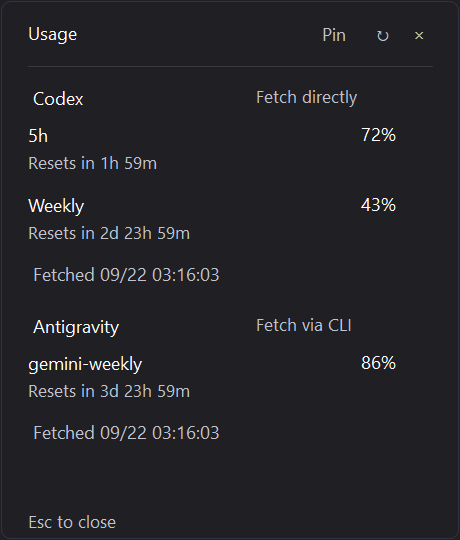
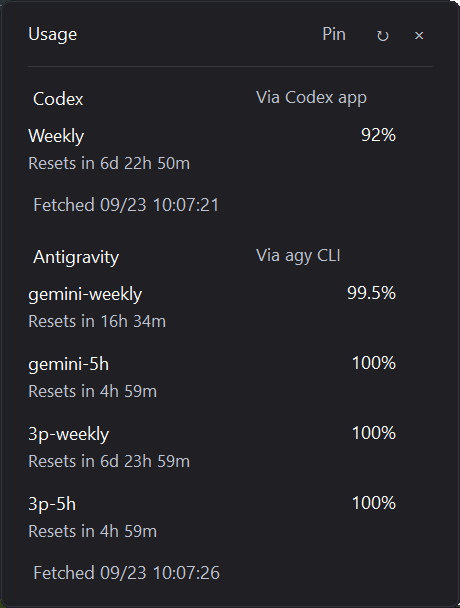
Show quota details on hover and clarify data sources

diff --git a/Program.cs b/Program.cs
@@ -39,24 +39,40 @@ internal sealed class TrayApplicationContext : ApplicationContext
     private NotifyIcon? selectedTray;
     private readonly TrayContextMenu menu = new();
     private readonly System.Windows.Forms.Timer poll = new() { Interval = 60000 };
+    private readonly System.Windows.Forms.Timer hoverClose = new() { Interval = 100 };
 
     private readonly CancellationTokenSource stop = new();
     private readonly DetailsForm form;
     private readonly TrayWidget widget;
     private Reading codex = new("Codex", [], null), agy = new("Antigravity", [], null);
-    private bool busy, closing;
+    private bool busy, closing, hoverOpened;
+    private long outsideSince;
 
     internal TrayApplicationContext()
     {
         form = new(prefs);
         prefs.Pinned = false;
         widget = new(new[] { tray, agyTray }.Concat(extraSlots).ToArray(), menu);
-        widget.OpenDetails += () => { if (form.Visible) form.Hide(); else form.Reveal(true); };
+        widget.OpenDetails += () => { hoverOpened = false; if (form.Visible) form.Hide(); else form.Reveal(true); };
+        widget.HoverDetailsEnabled = () => prefs.OpenDetailsOnHover;
+        widget.HoverDetails += () => { if (!form.Visible) { hoverOpened = true; outsideSince = 0; form.Reveal(true); } };
+        form.VisibleChanged += (_, _) => { if (!form.Visible) { hoverOpened = false; outsideSince = 0; } };
+        menu.Opened += (_, _) => { if (hoverOpened) form.Hide(); };
+        hoverClose.Tick += (_, _) =>
+        {
+            if (!hoverOpened || !form.Visible || prefs.Pinned) return;
+            if (widget.IsHovered || form.Bounds.Contains(Cursor.Position)) { outsideSince = 0; return; }
+            if (outsideSince == 0) outsideSince = Environment.TickCount64;
+            else if (Environment.TickCount64 - outsideSince >= 350) form.Hide();
+        };
         form.TrayBounds = () => widget.Visible ? widget.ScreenBounds : TrayPresentation.GetBounds(selectedTray ?? tray);
         menu.TrayAnchor = () => widget.Visible ? widget.ScreenBounds : TrayPresentation.GetBounds(selectedTray ?? tray) ?? new Rectangle(Cursor.Position, Size.Empty);
         form.RefreshRequested += () => _ = Refresh();
-        menu.Items.Add(L.T("パネルを開く"), null, (_, _) => form.Reveal(true));
+        menu.Items.Add(L.T("パネルを開く"), null, (_, _) => { hoverOpened = false; form.Reveal(true); });
         menu.Items.Add(L.T("今すぐ更新"), null, (_, _) => _ = Refresh());
+        var hoverOption = new ToolStripMenuItem(L.T("ホバーで詳細を開く")) { CheckOnClick = true, Checked = prefs.OpenDetailsOnHover };
+        hoverOption.CheckedChanged += (_, _) => { prefs.OpenDetailsOnHover = hoverOption.Checked; prefs.Save(); };
+        menu.Items.Add(hoverOption);
         var startup = new ToolStripMenuItem(L.T("Windows起動時に開始")) { CheckOnClick = true };
         using (var key = Registry.CurrentUser.OpenSubKey(@"Software\Microsoft\Windows\CurrentVersion\Run")) startup.Checked = key?.GetValue("CodexLimitViewer") != null;
         startup.Click += (_, _) =>
@@ -94,11 +110,12 @@ internal sealed class TrayApplicationContext : ApplicationContext
         foreach (var icon in new[] { tray, agyTray })
         {
             icon.MouseDown += (_, _) => selectedTray = icon;
-            icon.MouseClick += (_, e) => { if (e.Button == MouseButtons.Left) { selectedTray = icon; if (form.Visible && !prefs.Pinned) form.Hide(); else form.Reveal(true); } };
+            icon.MouseClick += (_, e) => { if (e.Button == MouseButtons.Left) { selectedTray = icon; hoverOpened = false; if (form.Visible && !prefs.Pinned) form.Hide(); else form.Reveal(true); } };
         }
         poll.Tick += (_, _) => _ = Refresh();
 
         poll.Start();
+        hoverClose.Start();
         if (prefs.Pinned) { form.PositionAtTray(); form.Show(); }
         _ = Refresh();
     }
@@ -129,7 +146,7 @@ internal sealed class TrayApplicationContext : ApplicationContext
     }
     protected override void ExitThreadCore()
     {
-        closing = true; stop.Cancel(); poll.Dispose();
+        closing = true; stop.Cancel(); poll.Dispose(); hoverClose.Dispose();
         tray.Visible = false; agyTray.Visible = false;
         widget.Dispose(); tray.Icon?.Dispose(); tray.Dispose(); agyTray.Icon?.Dispose(); agyTray.Dispose(); menu.Dispose(); form.Dispose();
         foreach (var slot in extraSlots) { slot.Visible = false; slot.Icon?.Dispose(); slot.Dispose(); }

diff --git a/DetailsForm.cs b/DetailsForm.cs
@@ -92,7 +92,7 @@ internal sealed class DetailsForm : Form
         refresh.SetBounds(Width - 91, 17, 30, 30);
         hide.SetBounds(Width - 55, 17, 30, 30);
         pin.ForeColor = prefs.Pinned ? Mint : Muted;
-        list.SetBounds(20, 85, Math.Max(20, Width - 40), Math.Max(1, Height - 125));
+        list.SetBounds(20, 85, Math.Max(20, Width - 40), Math.Max(1, Height - 90));
     }
     private void RoundWindow()
     {
@@ -117,8 +117,9 @@ internal sealed class DetailsForm : Form
     internal void Expand(bool value, bool animate = true)
     {
         expanded = value;
+        int missing = (codex.Quotas.Count == 0 ? 1 : 0) + (agy.Quotas.Count == 0 ? 1 : 0);
         int expandedHeight = Math.Min(Screen.FromRectangle(Bounds).WorkingArea.Height - 24,
-            Math.Clamp(330 + 70 * (codex.Quotas.Count + agy.Quotas.Count), 482, 720));
+            Math.Clamp(258 + 70 * (codex.Quotas.Count + agy.Quotas.Count) + 20 * missing, 300, 720));
         target = value ? new Size(460, expandedHeight) : new Size(344, 54);
         if (value) RebuildRows();
         ClientSize = target; ClampPosition();
@@ -172,9 +173,9 @@ internal sealed class DetailsForm : Form
         foreach (var reading in new[] { codex, agy })
         {
             var color = reading.Provider == "Codex" ? Mint : Violet;
-            AddLabel(reading.Provider, new Rectangle(8, y, 230, 25), color, 12);
-            string status = reading.Updated == null ? L.T("未接続") : reading.Stale ? L.T("前回の値") : reading.Provider == "Codex" ? L.T("直接取得") : L.T("CLIで取得");
-            AddLabel(status, new Rectangle(232, y, 160, 28), Muted, 11);
+            AddLabel(reading.Provider, new Rectangle(8, y, 210, 25), color, 12);
+            string status = reading.Updated == null ? L.T("未接続") : reading.Stale ? L.T("前回の値") : reading.Provider == "Codex" ? reading.Source ?? "Codex" : L.T("agy CLI経由");
+            AddLabel(status, new Rectangle(232, y, 185, 28), Muted, 11, ellipsis: false);
             y += 36;
             if (reading.Quotas.Count == 0)
             {
@@ -194,12 +195,12 @@ internal sealed class DetailsForm : Form
             }
             y += 20;
         }
-        list.AutoScrollMinSize = new Size(0, y);
+        list.AutoScrollMinSize = new Size(0, Math.Max(0, y - 20));
         list.ResumeLayout(); list.AutoScrollPosition = new Point(-scroll.X, -scroll.Y);
     }
-    private void AddLabel(string text, Rectangle bounds, Color color, float size, FontStyle style = FontStyle.Regular)
+    private void AddLabel(string text, Rectangle bounds, Color color, float size, FontStyle style = FontStyle.Regular, bool ellipsis = true)
     {
-        list.Controls.Add(new Label { Text = L.T(text), Bounds = bounds, ForeColor = color, Font = new Font("Segoe UI", size * DeviceDpi / 96f, style, GraphicsUnit.Pixel), AutoEllipsis = true });
+        list.Controls.Add(new Label { Text = L.T(text), Bounds = bounds, ForeColor = color, Font = new Font("Segoe UI", size * DeviceDpi / 96f, style, GraphicsUnit.Pixel), AutoEllipsis = ellipsis });
     }
     protected override void OnPaint(PaintEventArgs e)
     {
@@ -219,7 +220,7 @@ internal sealed class DetailsForm : Form
         {
             DrawText(g, L.T("使用状況"), 28, 20, 12, Color.White);
             using var divider = new Pen(Color.FromArgb(58, 58, 63)); g.DrawLine(divider, 28, 66, Width - 28, 66);
-            DrawText(g, refreshing ? L.T("使用状況を更新中…") : L.T("Esc で閉じる"), 28, Height - 30, 11, Muted);
+            if (refreshing) DrawText(g, L.T("更新中…"), 130, 20, 10, Muted);
         }
     }
     internal static GraphicsPath Rounded(RectangleF r, float radius)

diff --git a/TrayWidget.cs b/TrayWidget.cs
@@ -7,16 +7,23 @@ namespace CodexLimitViewer;
 internal sealed class TrayWidget : Form
 {
     private readonly NotifyIcon[] slots;
+    private readonly ContextMenuStrip menu;
     private readonly System.Windows.Forms.Timer timer = new() { Interval = 250 };
     private readonly ToolTip tooltip = new();
     private Reading codex = new("Codex", [], null), agy = new("Antigravity", [], null);
     private bool needsPaint = true;
     private bool hovered;
+    private bool hoverHandled;
+    private long hoverStarted;
     private Point taskbarPosition;
+    internal bool IsHovered => hovered;
     internal event Action? OpenDetails;
+    internal event Action? HoverDetails;
+    internal Func<bool>? HoverDetailsEnabled;
     internal TrayWidget(NotifyIcon[] slots, ContextMenuStrip menu)
     {
         this.slots = slots;
+        this.menu = menu;
         FormBorderStyle = FormBorderStyle.None;
         StartPosition = FormStartPosition.Manual;
         ShowInTaskbar = false;
@@ -49,6 +56,7 @@ internal sealed class TrayWidget : Form
     [DllImport("user32.dll")] private static extern bool ShowWindow(IntPtr window, int command);
     [DllImport("user32.dll", CharSet = CharSet.Unicode)] private static extern IntPtr FindWindow(string className, string? title);
     [DllImport("user32.dll")] private static extern bool IsWindow(IntPtr window);
+    [DllImport("user32.dll")] private static extern IntPtr WindowFromPoint(Point point);
     [DllImport("user32.dll")] private static extern bool GetWindowRect(IntPtr window, out NativeRect rect);
     [DllImport("user32.dll", SetLastError = true)] private static extern IntPtr SetParent(IntPtr child, IntPtr parent);
     [DllImport("user32.dll")] private static extern IntPtr GetWindowLongPtr(IntPtr window, int index);
@@ -100,8 +108,23 @@ internal sealed class TrayWidget : Form
         taskbarPosition = bounds.Location;
         if (Bounds != bounds) { Bounds = bounds; needsPaint = true; }
         if (!Visible) { Show(); needsPaint = true; }
-        bool pointerInside = ScreenBounds.Contains(Cursor.Position);
-        if (hovered != pointerInside) { hovered = pointerInside; needsPaint = true; }
+        bool pointerInside = ScreenBounds.Contains(Cursor.Position) && WindowFromPoint(Cursor.Position) == Handle;
+        if (hovered != pointerInside)
+        {
+            hovered = pointerInside;
+            hoverHandled = false;
+            hoverStarted = Environment.TickCount64;
+            needsPaint = true;
+        }
+        if (hovered && !hoverHandled)
+        {
+            if (menu.Visible) hoverHandled = true;
+            else if (Environment.TickCount64 - hoverStarted >= 400 && HoverDetailsEnabled?.Invoke() == true)
+            {
+                hoverHandled = true;
+                HoverDetails?.Invoke();
+            }
+        }
         if (needsPaint) { RenderSurface(); needsPaint = false; }
     }
     protected override void OnPaintBackground(PaintEventArgs e) { }

diff --git a/Verification.cs b/Verification.cs
@@ -9,6 +9,7 @@ internal static class Verification
         var results = new List<string>();
         try
         {
+            Check(new Preferences().OpenDetailsOnHover, "Hover details defaults on", results);
             Check(DetailsForm.FormatCountdown(TimeSpan.FromHours(100)) == "リセットまで 4日 4時間 0分", "Countdown 100 hours uses days", results);
             Check(DetailsForm.FormatCountdown(TimeSpan.FromHours(24)) == "リセットまで 1日 0時間 0分", "Countdown day boundary", results);
             Check(DetailsForm.FormatCountdown(TimeSpan.FromMinutes(1439)) == "リセットまで 23時間 59分", "Countdown below one day", results);
@@ -16,7 +17,9 @@ internal static class Verification
             L.English = true;
             Check(DetailsForm.FormatCountdown(TimeSpan.FromHours(100)) == "Resets in 4d 4h 0m", "English duration", results);
             Check(L.F("取得 {age}", ("age", "09/22 03:00:00")) == "Fetched 09/22 03:00:00", "English timestamp", results);
-            Check(L.QuotaLabel("週間") == "Weekly" && L.T("パネルを開く") == "Open panel", "English labels", results);
+            Check(L.QuotaLabel("週間") == "Weekly" && L.T("パネルを開く") == "Open panel" &&
+                L.T("Codexアプリ経由") == "Via Codex app" &&
+                L.T("ホバーで詳細を開く") == "Open details on hover", "English labels", results);
             L.English = false;
             using var codex = JsonDocument.Parse("""{"rateLimitsByLimitId":{"codex":{"primary":{"usedPercent":22.5,"windowDurationMins":300,"resetsAt":1800000000},"secondary":{"usedPercent":90,"windowDurationMins":10080}},"extra":{"primary":{"usedPercent":15,"windowDurationMins":60}}}}""");
             var c = QuotaParser.Codex(codex.RootElement);

diff --git a/Providers.cs b/Providers.cs
@@ -12,6 +12,7 @@ internal static class Providers
         var ct = timeout.Token;
         string folder = Path.Combine(Environment.GetFolderPath(Environment.SpecialFolder.LocalApplicationData), "OpenAI", "Codex", "bin");
         var exe = Directory.Exists(folder) ? Directory.GetFiles(folder, "codex.exe", SearchOption.AllDirectories).OrderByDescending(File.GetLastWriteTimeUtc).FirstOrDefault() : null;
+        bool desktopApp = exe != null;
         if (exe == null)
         {
             exe = (Environment.GetEnvironmentVariable("PATH") ?? "").Split(Path.PathSeparator).Select(p => Path.Combine(p, "codex.exe")).FirstOrDefault(File.Exists);
@@ -28,7 +29,10 @@ internal static class Providers
             await ReadResult(proc, 1, ct);
             await proc.StandardInput.WriteLineAsync("""{"method":"initialized","params":{}}""");
             await proc.StandardInput.WriteLineAsync("""{"id":2,"method":"account/rateLimits/read"}""");
-            return QuotaParser.Codex(await ReadResult(proc, 2, ct));
+            return QuotaParser.Codex(await ReadResult(proc, 2, ct)) with
+            {
+                Source = L.T(desktopApp ? "Codexアプリ経由" : "Codex CLI経由")
+            };
         }
         finally
         {

diff --git a/Data.cs b/Data.cs
@@ -3,7 +3,7 @@ using System.Text.Json;
 namespace CodexLimitViewer;
 
 internal record Quota(string Label, double Remaining, DateTimeOffset? Reset);
-internal record Reading(string Provider, List<Quota> Quotas, DateTimeOffset? Updated, string? Error = null)
+internal record Reading(string Provider, List<Quota> Quotas, DateTimeOffset? Updated, string? Error = null, string? Source = null)
 {
     public bool Stale => Error != null || Updated == null || DateTimeOffset.UtcNow - Updated > TimeSpan.FromMinutes(10);
     public string Compact => Quotas.Count == 0 ? "—" : $"{Quotas.Min(q => q.Remaining):0.#}%";
@@ -12,6 +12,7 @@ internal sealed class Preferences
 {
     public string Language { get; set; } = "ja";
     public bool Pinned { get; set; } = false;
+    public bool OpenDetailsOnHover { get; set; } = true;
     public int X { get; set; } = int.MinValue;
     public int Y { get; set; } = 16;
     public static string Folder => Path.Combine(Environment.GetFolderPath(Environment.SpecialFolder.LocalApplicationData), "CodexLimitViewer");

diff --git a/README.en.md b/README.en.md
@@ -9,8 +9,8 @@ A sleek, lightweight Windows 11 system tray application that keeps your Codex an
 ## Features
 
 - **Always Visible**: Glance at your remaining quota percentage (lowest bucket) directly in your Windows 11 notification area.
-- **Detailed Breakdown**: Click the tray icon to view per-bucket usage, reset countdowns (days, hours, minutes), and the last updated timestamp.
-- **Safe CLI Integration**: Polls your installed official CLIs every 60 seconds. The app never accesses or stores your credentials.
+- **Details on Hover**: Hover over the tray display to see per-bucket usage, reset countdowns (days, hours, minutes), and the last updated timestamp. Turn this off in the right-click menu if you prefer.
+- **Codex and Antigravity CLI Integration**: For Codex, the app uses the executable bundled with the desktop app when available, otherwise a standalone Codex CLI installation. It uses `agy` for Antigravity. It polls every 60 seconds without extracting or storing credentials.
 - **Graceful Error Handling**: If a fetch fails, previous values remain visible in gray text rather than disappearing.
 - **Bilingual Interface**: Japanese by default, switchable to English anytime via the right-click menu.
 
@@ -19,7 +19,7 @@ A sleek, lightweight Windows 11 system tray application that keeps your Codex an
 ## Getting Started
 
 1. **Prerequisites**:
-   Install and sign in to the official Codex and/or Antigravity CLI (`agy`). CLI tools are not bundled with this application.
+   Install and sign in to Codex in the [ChatGPT desktop app](https://learn.chatgpt.com/docs/windows/windows-app), or install [Codex CLI](https://github.com/openai/codex). The Codex source requires a local `codex.exe`. To display Antigravity quota, also install [Antigravity CLI (`agy`)](https://antigravity.google/docs/cli-install). This application does not bundle CLI tools.
 2. **Download**:
    Download and extract the latest release ZIP from [Releases](https://github.com/hinatamaxxx/codex-limit-viewer/releases).
 3. **Install**:
@@ -36,8 +36,9 @@ A sleek, lightweight Windows 11 system tray application that keeps your Codex an
 
 ![Codex Limit Viewer](docs/menu-en.png)
 
+- **Hover**: Open the details popup (enabled by default). It closes after the pointer leaves both the tray display and the popup.
 - **Left-Click**: Toggle details popup.
-- **Right-Click**: Context menu (Refresh Now, Language, Launch at Startup, Exit).
+- **Right-Click**: Context menu (hover setting, Refresh Now, Language, Launch at Startup, Exit).
 - **Startup**: Opt-in via the right-click menu (disabled by default).
 
 ## Customization
